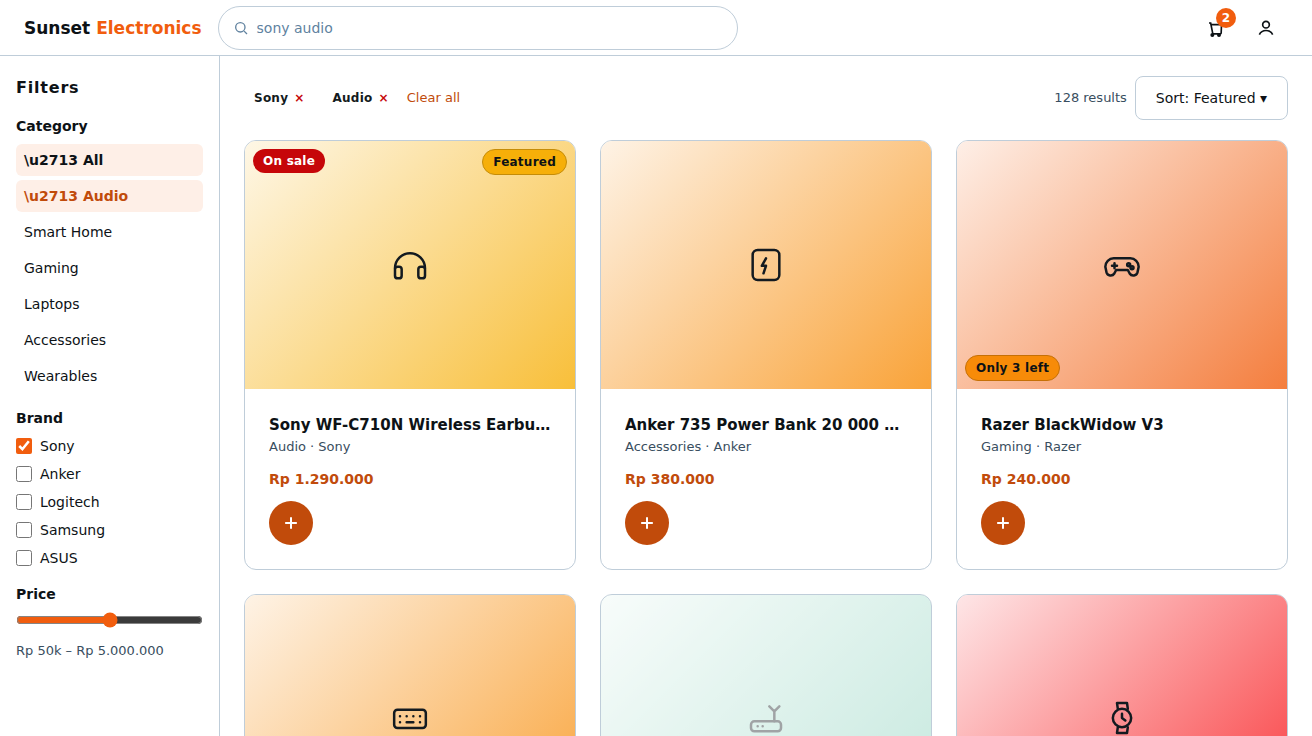
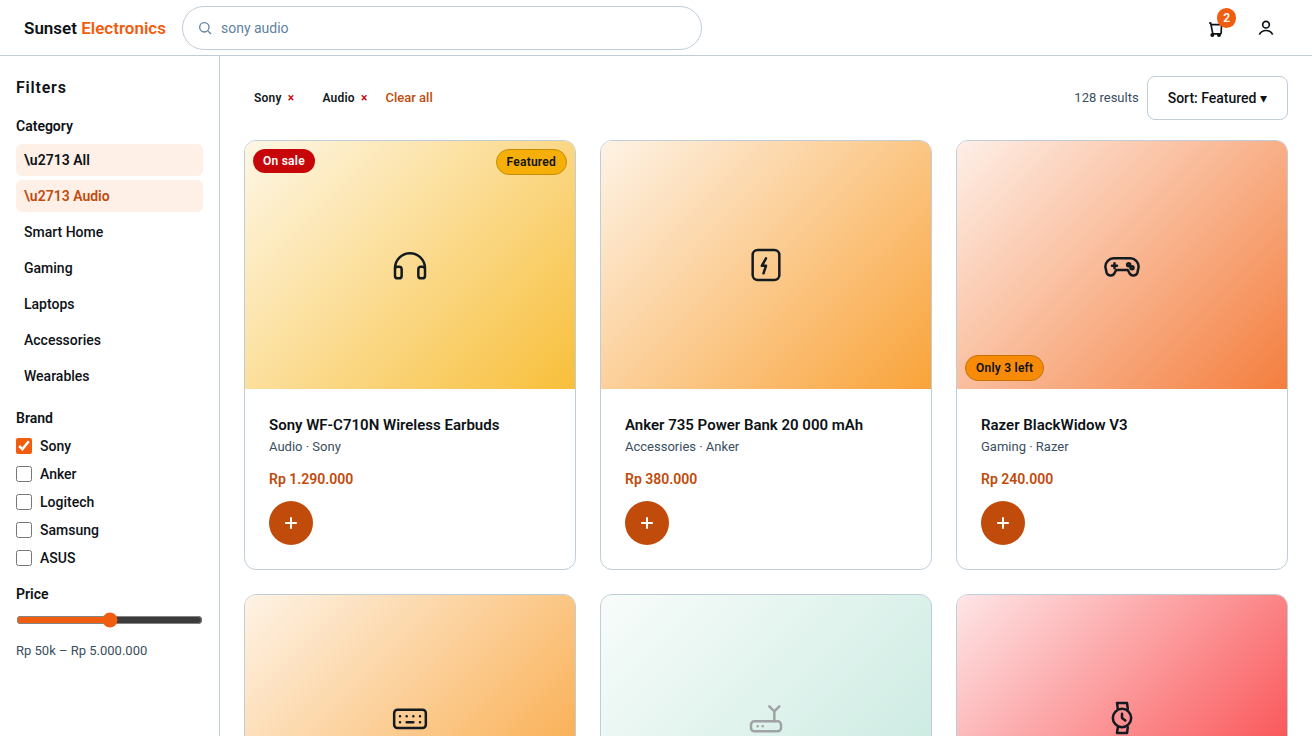
docs(round3v4): switch typography framework Inter -> Roboto
Roboto 400/500/600 now the single family (same weight cap + type scale as
the round-3 framework; only the family changes).
- generator: _mockup-build/lib.py (--font-sans + Google-Fonts link), pages_auth.py
  docstring, render.py (+ --virtual-time-budget so the webfont loads into PNGs).
- framework spec docs/design-tokens-round3.md + all 13 docs/<page>/design.md
  headers + docs/control-panel unchanged (no Inter tokens there).
- re-rendered all 13 docs/<page>/mockup.png from the Roboto generator
  (confirmed via CDP that document.fonts reports Roboto loaded).
- verify tools: verify.cjs + verify_framework.cjs now reference Roboto.

diff --git a/_mockup-build/lib.py b/_mockup-build/lib.py
@@ -1,5 +1,5 @@
 # Sunset Glow token CSS (exact hexes from docs/color-tokens.md — 77 scale values + white canvas)
-# Round-3: implements docs/design-tokens-round3.md — Inter 400/500/600, 8pt spacing, pill badges,
+# Round-3: implements docs/design-tokens-round3.md — Roboto 400/500/600, 8pt spacing, pill badges,
 # filled 44px CTAs, gradient product tiles, 1-line-clamped card titles.
 TOK = {
  "sr": ["#FEE6E7","#FDCECE","#FC9C9E","#FA6B6D","#F9393C","#F7080C","#C60609","#940507","#630305","#310202","#230102"],
@@ -34,8 +34,8 @@ BASE_CSS = """
 :root{
 /*__VARS__*/
   --canvas:#FFFFFF;
-  /* Inter (400/500/600 only) + system fallback */
-  --font-sans:"Inter","system-ui","-apple-system","Segoe UI","Roboto","sans-serif";
+  /* Roboto (400/500/600 only) + system fallback */
+  --font-sans:"Roboto","system-ui","-apple-system","Segoe UI","sans-serif";
   /* type scale (§1) */
   --text-h1:26px; --lh-h1:36px;
   --text-section:16px; --lh-section:24px; --track-section:.05em;
@@ -201,7 +201,7 @@ display:flex;flex-direction:column;gap:4px;flex:none;overflow-y:auto}
 
 HEAD_LINKS = ('<link rel="preconnect" href="https://fonts.googleapis.com">\n'
               '<link rel="preconnect" href="https://fonts.gstatic.com" crossorigin>\n'
-              '<link href="https://fonts.googleapis.com/css2?family=Inter:wght@400;500;600&display=swap" rel="stylesheet">\n')
+              '<link href="https://fonts.googleapis.com/css2?family=Roboto:wght@400;500;600&display=swap" rel="stylesheet">\n')
 
 ICONS = {
 "search":'<svg width="16" height="16" viewBox="0 0 24 24" fill="none" stroke="var(--bs-500)" stroke-width="2"><circle cx="11" cy="11" r="7"/><path d="M21 21l-4.3-4.3"/></svg>',

diff --git a/_mockup-build/pages_auth.py b/_mockup-build/pages_auth.py
@@ -1,4 +1,4 @@
-# Page builders for 13 mockups — Round-3 (docs/design-tokens-round3.md): Inter 400/500/600,
+# Page builders for 13 mockups — Round-3 (docs/design-tokens-round3.md): Roboto 400/500/600,
 # §1 type scale, §2 8pt spacing + 44px touch floor, §3.2 filled CTAs.
 import sys
 sys.path.insert(0, ".")

diff --git a/_mockup-build/render.py b/_mockup-build/render.py
@@ -17,7 +17,7 @@ PAGES_ORDER = [
 
 CHROMIUM = "/snap/bin/chromium"
 ARGS = ["--headless", "--no-sandbox", "--disable-gpu",
-        "--disable-dev-shm-usage", "--hide-scrollbars"]
+        "--disable-dev-shm-usage", "--hide-scrollbars", "--virtual-time-budget=5000"]
 
 results = []
 for p in PAGES_ORDER:

diff --git a/docs/design-tokens-round3.md b/docs/design-tokens-round3.md
@@ -11,7 +11,7 @@ pills, and product tiles that don't read as line-art placeholders.
 
 ## 1. Typography
 
-One family: **Inter**, weights **400 / 500 / 600 only** — no 700+, no 300. Headings carry the
+One family: **Roboto**, weights **400 / 500 / 600 only** — no 700+, no 300. Headings carry the
 hierarchy via size + weight, never via decorative fonts.
 
 Font loading (put in every HTML head / app entry):
@@ -19,7 +19,7 @@ Font loading (put in every HTML head / app entry):
 ```html
 <link rel="preconnect" href="https://fonts.googleapis.com">
 <link rel="preconnect" href="https://fonts.gstatic.com" crossorigin>
-<link href="https://fonts.googleapis.com/css2?family=Inter:wght@400;500;600&display=swap"
+<link href="https://fonts.googleapis.com/css2?family=Roboto:wght@400;500;600&display=swap"
       rel="stylesheet">
 ```
 
@@ -47,8 +47,8 @@ size to regular prices — weight and color do the work, not scaling.
 
 ```css
 :root {
-  /* Inter via the <link> above; system fallback when it fails */
-  --font-sans: "Inter", system-ui, -apple-system, "Segoe UI", Roboto, sans-serif;
+  /* Roboto via the <link> above; system fallback when it fails */
+  --font-sans: "Roboto", system-ui, -apple-system, "Segoe UI", sans-serif;
   font-family: var(--font-sans);
   font-size: 14px;
   line-height: 20px;
@@ -74,7 +74,7 @@ size to regular prices — weight and color do the work, not scaling.
 ```js
 theme: {
   extend: {
-    fontFamily: { sans: ["Inter", "system-ui", "-apple-system", "Segoe UI", "Roboto", "sans-serif"] },
+    fontFamily: { sans: ["Roboto", "system-ui", "-apple-system", "Segoe UI", "sans-serif"] },
     fontSize: {
       h1: ["26px", { lineHeight: "36px", fontWeight: "600" }],
       section: ["16px", { lineHeight: "24px", fontWeight: "600", letterSpacing: "0.05em" }],
@@ -348,7 +348,7 @@ Mobile header: logo left, cart + account right, search row on its own line below
 
 | Element | Round 2 | Round 3 |
 |---|---|---|
-| Font | default sans stack | Inter 400/500/600, fixed type scale (§1) |
+| Font | default sans stack | Roboto 400/500/600, fixed type scale (§1) |
 | Section labels | ~12px, heavy tracking, often uppercase | 16px/600, 0.05em, sentence case (§1) |
 | Card gaps | 12px | 32px desktop / 24px mobile, section rhythm 48px (§2) |
 | Prices | size-based emphasis | 14px/600 `atomicTangerine-600`, color+weight only (§1) |

diff --git a/docs/per-product-review-panel/design.md b/docs/per-product-review-panel/design.md
@@ -1,7 +1,7 @@
 # Page: Per Product Review Panel — Design Spec (Sunset Glow)
 
 Palette: `docs/color-tokens.md`. Roles: `Sheets-report.md`.
-Typography & spacing per docs/design-tokens-round3.md (Inter 400/500/600, 8pt grid, unified pill badges, filled CTA stack).
+Typography & spacing per docs/design-tokens-round3.md (Roboto 400/500/600, 8pt grid, unified pill badges, filled CTA stack).
 App shell & gutter (v4): `docs/control-panel/design.md` — the ops sidebar is a 230px `--ops-sidebar-w` token and the sidebar-to-content gutter is an explicit `.ops-content` padding (`--ops-page-pad` 32px desktop / 24px mobile), reset-proof by class specificity. This page's content sits 32px off the sidebar; its internal table/panel layout is unchanged by the shell spec.
 Access: **manager/admin only** (matrix: moderate reviews F/F/T/T). This is the
 moderation console: approve / hide / delete reviews, scoped per product.

diff --git a/docs/ongoing-orders/design.md b/docs/ongoing-orders/design.md
@@ -1,7 +1,7 @@
 # Page: Ongoing Orders — Design Spec (Sunset Glow)
 
 Palette: `docs/color-tokens.md`. Roles: `Sheets-report.md`.
-Typography & spacing per docs/design-tokens-round3.md (Inter 400/500/600, 8pt grid, unified pill badges, filled CTA stack).
+Typography & spacing per docs/design-tokens-round3.md (Roboto 400/500/600, 8pt grid, unified pill badges, filled CTA stack).
 App shell & gutter (v4): `docs/control-panel/design.md` — the ops sidebar is a 230px `--ops-sidebar-w` token and the sidebar-to-content gutter is an explicit `.ops-content` padding (`--ops-page-pad` 32px desktop / 24px mobile), reset-proof by class specificity. This page's content sits 32px off the sidebar; its internal table/panel layout is unchanged by the shell spec.
 Access: **staff/manager/admin** (matrix: "update purchase status" F/T/T/T;
 page list = staff/manager/admin). This is the **fulfillment console** — the

diff --git a/docs/user-dashboard/design.md b/docs/user-dashboard/design.md
@@ -1,7 +1,7 @@
 # Page: User Dashboard — Design Spec (Sunset Glow)
 
 Palette: `docs/color-tokens.md`. Roles: `Sheets-report.md`.
-Typography & spacing per docs/design-tokens-round3.md (Inter 400/500/600, 8pt grid, unified pill badges, filled CTA stack).
+Typography & spacing per docs/design-tokens-round3.md (Roboto 400/500/600, 8pt grid, unified pill badges, filled CTA stack).
 App shell & gutter (v4): `docs/control-panel/design.md` — the ops sidebar is a 230px `--ops-sidebar-w` token and the sidebar-to-content gutter is an explicit `.ops-content` padding (`--ops-page-pad` 32px desktop / 24px mobile), reset-proof by class specificity. This page's content sits 32px off the sidebar; its internal table/panel layout is unchanged by the shell spec.
 Access: **admin only** (matrix: "manage user accounts" F/F/F/T). The sheet
 flags this as the "most sensitive feature" with strict route protection —

diff --git a/docs/per-product-dashboard/design.md b/docs/per-product-dashboard/design.md
@@ -1,7 +1,7 @@
 # Page: Per Product Dashboard — Design Spec (Sunset Glow)
 
 Palette: `docs/color-tokens.md`. Roles: `Sheets-report.md`.
-Typography & spacing per docs/design-tokens-round3.md (Inter 400/500/600, 8pt grid, unified pill badges, filled CTA stack).
+Typography & spacing per docs/design-tokens-round3.md (Roboto 400/500/600, 8pt grid, unified pill badges, filled CTA stack).
 App shell & gutter (v4): `docs/control-panel/design.md` — the ops sidebar is a 230px `--ops-sidebar-w` token and the sidebar-to-content gutter is an explicit `.ops-content` padding (`--ops-page-pad` 32px desktop / 24px mobile), reset-proof by class specificity. This page's content sits 32px off the sidebar; its internal table/panel layout is unchanged by the shell spec.
 Access: **manager/admin only** (matrix: add new product / update stock
 quantity / change product details all F for buyer+staff). This is the

diff --git a/docs/inventory-dashboard/design.md b/docs/inventory-dashboard/design.md
@@ -1,7 +1,7 @@
 # Page: Inventory Dashboard — Design Spec (Sunset Glow)
 
 Palette: `docs/color-tokens.md`. Roles: `Sheets-report.md`.
-Typography & spacing per docs/design-tokens-round3.md (Inter 400/500/600, 8pt grid, unified pill badges, filled CTA stack).
+Typography & spacing per docs/design-tokens-round3.md (Roboto 400/500/600, 8pt grid, unified pill badges, filled CTA stack).
 App shell & gutter (v4): `docs/control-panel/design.md` — the ops sidebar is a 230px `--ops-sidebar-w` token and the sidebar-to-content gutter is an explicit `.ops-content` padding (`--ops-page-pad` 32px desktop / 24px mobile), reset-proof by class specificity. This page's content sits 32px off the sidebar; its internal table/panel layout is unchanged by the shell spec.
 Ops panel page. Access: **staff/manager/admin** (page-list column), with
 matrix-driven feature gating inside:

diff --git a/docs/orders-placed/design.md b/docs/orders-placed/design.md
@@ -4,7 +4,7 @@ Palette: `docs/color-tokens.md`. Roles: `Sheets-report.md`.
 Order-flow step 3 (Cart → Checkout → **Orders Placed**). Also the buyer's order
 history + status tracking page, and — per the sheet's implementation notes —
 **home of the review form** (open decision #9 noted in Product Details).
-Typography & spacing per `docs/design-tokens-round3.md` (Inter 400/500/600, 8pt grid,
+Typography & spacing per `docs/design-tokens-round3.md` (Roboto 400/500/600, 8pt grid,
 unified pill badges, filled CTA stack).
 
 ## FEATURES

diff --git a/docs/product-details/design.md b/docs/product-details/design.md
@@ -4,7 +4,7 @@ Palette: `docs/color-tokens.md`. Roles: `Sheets-report.md`.
 Matrix: "view product details" T for **all 4 roles** — this page is the only storefront
 page that staff/manager/admin legitimately open (e.g. to check stock or see pending
 reviews). The two variants are in §INTERACTIONS.
-Typography & spacing per `docs/design-tokens-round3.md` (Inter 400/500/600, 8pt grid,
+Typography & spacing per `docs/design-tokens-round3.md` (Roboto 400/500/600, 8pt grid,
 unified pill badges, filled CTA stack).
 
 ## FEATURES

diff --git a/docs/login/design.md b/docs/login/design.md
@@ -2,7 +2,7 @@
 
 Palette: `docs/color-tokens.md`. Roles/permissions: `Sheets-report.md` RBAC matrix.
 React component names are hints only — this is a design plan, not code.
-Typography & spacing per `docs/design-tokens-round3.md` (Inter 400/500/600, 8pt grid,
+Typography & spacing per `docs/design-tokens-round3.md` (Roboto 400/500/600, 8pt grid,
 unified pill badges, filled CTA stack).
 
 **SHARED LAYOUT (locked with Register, `docs/register/design.md`):** this page and Register share
